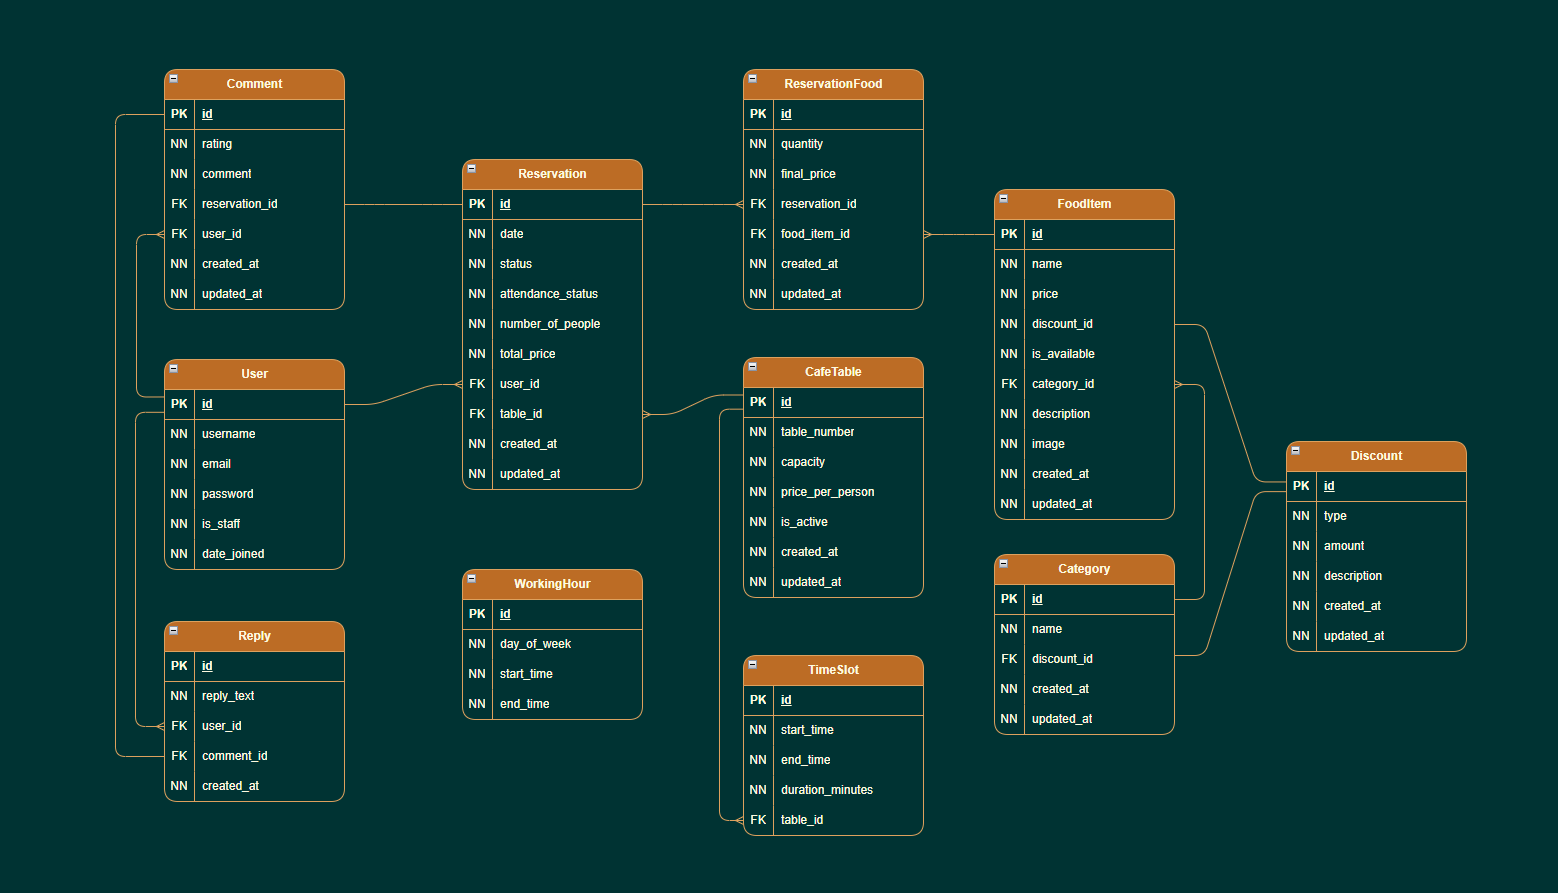
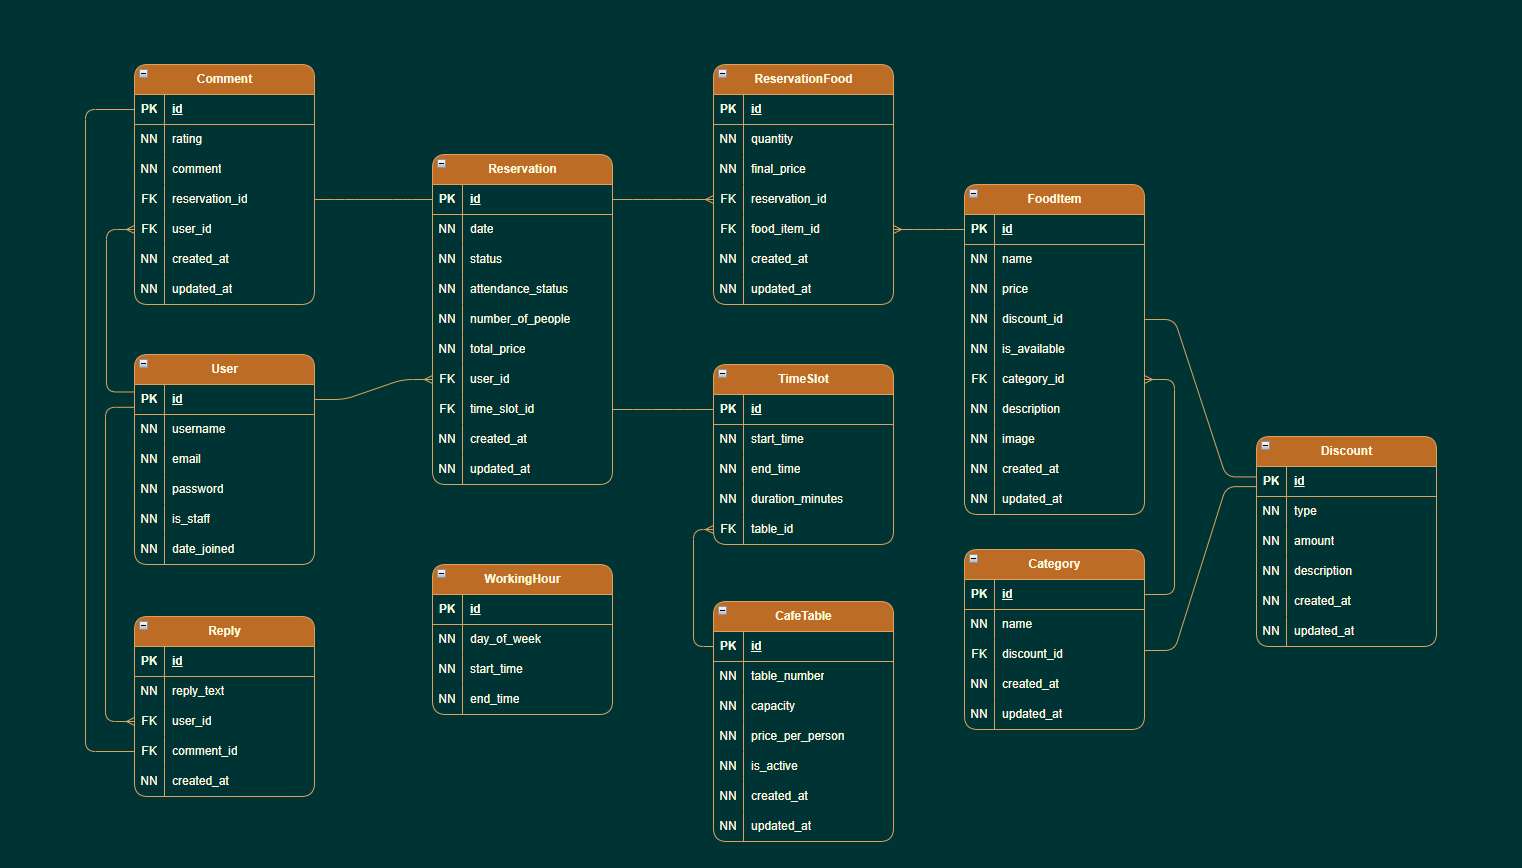
Changed relations with TimeSlot and added ratings to food items

diff --git a/templates/menu/menu.html b/templates/menu/menu.html
@@ -52,9 +52,10 @@
                         {% endif %}
                     </p>
 
-
-
-
+                    <p>
+                        ⭐{{ food.avg_rating|default:"No ratings" }}
+                    </p>
+                    
                     <p>{{ food.description }}</p>
 
                 </div>

diff --git a/reservations/models.py b/reservations/models.py
@@ -19,11 +19,11 @@ class Reservation(BaseModel):
         related_name="reservations"
     )
 
-    table = models.ForeignKey(
-        CafeTable,
-        verbose_name="Table",
+    time_slot = models.OneToOneField(
+        TimeSlot,
+        verbose_name="Time Slot",
         on_delete=models.CASCADE,
-        related_name="reservations"
+        related_name="reservations",
     )
 
     date = models.DateField(
@@ -73,7 +73,7 @@ class Reservation(BaseModel):
             )["total"] or Decimal("0")
         )
 
-        table_total = self.table.price_per_person * self.number_of_people
+        table_total = self.time_slot.table.price_per_person * self.number_of_people
 
         return food_total + table_total
 
@@ -85,15 +85,15 @@ class Reservation(BaseModel):
     def clean(self):
         super().clean()
 
-        if self.table and self.number_of_people:
-            if self.number_of_people > self.table.capacity:
+        if self.time_slot.table and self.number_of_people:
+            if self.number_of_people > self.time_slot.table.capacity:
                 raise ValidationError({
                     "number_of_people": "Exceeds table capacity!"
                 })
 
-        if self.table and not self.table.is_active:
+        if self.time_slot.table and not self.time_slot.table.is_active:
             raise ValidationError({
-                "table": "This table is not active and cannot be reserved."
+                "time_slot": "This table is not active and cannot be reserved."
         })
 
     def save(self, *args, **kwargs):
@@ -223,6 +223,14 @@ class Comment(BaseModel):
         auto_now=True,
     )
 
+    def clean(self):
+        super().clean()
+
+        if self.reservation and self.user:
+            if self.reservation.user_id != self.user_id:
+                raise ValidationError({
+                    "user": "User must match the reservation owner."
+                })
     def __str__(self):
         return f"{self.comment}"
 

diff --git a/menu/migrations/0001_initial.py b/menu/migrations/0001_initial.py
@@ -1,4 +1,4 @@
-# Generated by Django 6.0.1 on 2026-02-02 00:19
+# Generated by Django 6.0.1 on 2026-02-02 11:11
 
 import django.core.validators
 import django.db.models.deletion
@@ -36,7 +36,7 @@ class Migration(migrations.Migration):
                 ('name', models.CharField(max_length=32, verbose_name='Name')),
                 ('created_at', models.DateTimeField(auto_now_add=True, verbose_name='Write Time')),
                 ('updated_at', models.DateTimeField(auto_now=True, verbose_name='Update Time')),
-                ('discount', models.OneToOneField(blank=True, null=True, on_delete=django.db.models.deletion.SET_NULL, related_name='categories', to='menu.discount', verbose_name='Discount')),
+                ('discount', models.ForeignKey(blank=True, null=True, on_delete=django.db.models.deletion.SET_NULL, related_name='categories', to='menu.discount', verbose_name='Discount')),
             ],
             options={
                 'verbose_name_plural': 'Categories',
@@ -55,7 +55,7 @@ class Migration(migrations.Migration):
                 ('created_at', models.DateTimeField(auto_now_add=True, verbose_name='Write Time')),
                 ('updated_at', models.DateTimeField(auto_now=True, verbose_name='Update Time')),
                 ('category', models.ForeignKey(on_delete=django.db.models.deletion.CASCADE, related_name='food_items', to='menu.category', verbose_name='Category')),
-                ('discount', models.OneToOneField(blank=True, null=True, on_delete=django.db.models.deletion.SET_NULL, related_name='foods', to='menu.discount', verbose_name='Discount')),
+                ('discount', models.ForeignKey(blank=True, null=True, on_delete=django.db.models.deletion.SET_NULL, related_name='foods', to='menu.discount', verbose_name='Discount')),
             ],
             options={
                 'abstract': False,

diff --git a/reservations/migrations/0001_initial.py b/reservations/migrations/0001_initial.py
@@ -1,4 +1,4 @@
-# Generated by Django 6.0.1 on 2026-02-02 00:20
+# Generated by Django 6.0.1 on 2026-02-02 11:11
 
 import django.core.validators
 import django.db.models.deletion
@@ -12,7 +12,7 @@ class Migration(migrations.Migration):
 
     dependencies = [
         ('menu', '0001_initial'),
-        ('seating', '0001_initial'),
+        ('seating', '__first__'),
         migrations.swappable_dependency(settings.AUTH_USER_MODEL),
     ]
 
@@ -58,7 +58,7 @@ class Migration(migrations.Migration):
                 ('total_price', models.DecimalField(decimal_places=2, default=0, editable=False, max_digits=10)),
                 ('created_at', models.DateTimeField(auto_now_add=True, verbose_name='Write Time')),
                 ('updated_at', models.DateTimeField(auto_now=True, verbose_name='Update Time')),
-                ('table', models.ForeignKey(on_delete=django.db.models.deletion.CASCADE, related_name='reservations', to='seating.cafetable', verbose_name='Table')),
+                ('time_slot', models.OneToOneField(on_delete=django.db.models.deletion.CASCADE, related_name='reservations', to='seating.timeslot', verbose_name='Time Slot')),
                 ('user', models.ForeignKey(on_delete=django.db.models.deletion.CASCADE, related_name='reservations', to=settings.AUTH_USER_MODEL, verbose_name='User')),
             ],
             options={

diff --git a/reservations/admin.py b/reservations/admin.py
@@ -6,14 +6,16 @@ from .models import Reservation, ReservationFood, Comment, Reply
 class ReservationFoodInline(admin.TabularInline):
     model = ReservationFood
     extra = 0
+    exclude = "is_deleted",
     autocomplete_fields = ("food_item",)
+
 
 @admin.register(Reservation)
 class ReservationAdmin(BaseAdmin):
     list_display = (
         "id",
         "user",
-        "table",
+        "time_slot__table",
         "date",
         "number_of_people",
         "status",
@@ -25,18 +27,18 @@ class ReservationAdmin(BaseAdmin):
         "status",
         "attendance_status",
         "date",
-        "table",
+        "time_slot__table",
     )
 
     search_fields = (
         "user__username",
         "user__email",
-        "table__table_number",
+        "time_slot__table__table_number",
     )
 
     list_select_related = (
         "user",
-        "table",
+        "time_slot__table",
     )
 
     inlines = [ReservationFoodInline]
@@ -77,4 +79,4 @@ class ReplyAdmin(BaseAdmin):
         "reply",
     )
 
-    list_select_related = ("user", "review")
+    list_select_related = ("user", "comment")

diff --git a/seeds/full_seed.py b/seeds/full_seed.py
@@ -68,4 +68,39 @@ for n,c,p,d,disc in items:
         is_available=True
     )
 
+cat = Category.objects.create(name="Smoothies")
+
+FoodItem.objects.bulk_create([
+    FoodItem(
+        name="Strawberry Smoothie",
+        category=cat,
+        price=Decimal("5.40"),
+        description="Fresh strawberry blended smoothie.",
+        is_available=True
+    ),
+    FoodItem(
+        name="Mango Smoothie",
+        category=cat,
+        price=Decimal("5.60"),
+        description="Sweet mango smoothie with ice.",
+        is_available=True
+    ),
+    FoodItem(
+        name="Banana Smoothie",
+        category=cat,
+        price=Decimal("5.20"),
+        description="Creamy banana milk smoothie.",
+        is_available=True
+    ),
+    FoodItem(
+        name="Berry Mix Smoothie",
+        category=cat,
+        price=Decimal("5.90"),
+        description="Mixed berries smoothie.",
+        is_available=True
+    ),
+])
+
 print("SEEDED")
+
+

diff --git a/menu/views.py b/menu/views.py
@@ -1,6 +1,7 @@
 from django.shortcuts import render
+from django.db.models import Avg, Prefetch
 from django.views.generic import ListView
-from .models import Category
+from .models import Category, FoodItem
 
 class MenuView(ListView):
     model = Category
@@ -8,4 +9,9 @@ class MenuView(ListView):
     context_object_name = "categories"
 
     def get_queryset(self):
-        return Category.objects.prefetch_related("food_items")
+        food_qs = FoodItem.objects.annotate(
+            avg_rating=Avg("reservation_foods__reservation__comment__rating")
+        )
+        return Category.objects.prefetch_related(
+            Prefetch("food_items", queryset=food_qs)
+        )

diff --git a/config/settings.py b/config/settings.py
@@ -131,5 +131,5 @@ STATIC_URL = 'static/'
 MEDIA_URL = "/media/"
 MEDIA_ROOT = BASE_DIR / "media"
 
-LOGIN_REDIRECT_URL = "/menu/"
+LOGIN_REDIRECT_URL = "/food/menu/"
 LOGOUT_REDIRECT_URL = "/accounts/login/"

diff --git a/seating/migrations/0001_initial.py b/seating/migrations/0001_initial.py
@@ -1,4 +1,4 @@
-# Generated by Django 6.0.1 on 2026-02-02 00:20
+# Generated by Django 6.0.1 on 2026-02-02 11:12
 
 import django.core.validators
 import django.db.models.deletion

diff --git a/menu/urls.py b/menu/urls.py
@@ -1,5 +1,6 @@
 from django.urls import path
 from .views import MenuView
+
 urlpatterns = [
     path("menu/", MenuView.as_view(template_name="menu/menu.html"), name="menu"),
 ]
